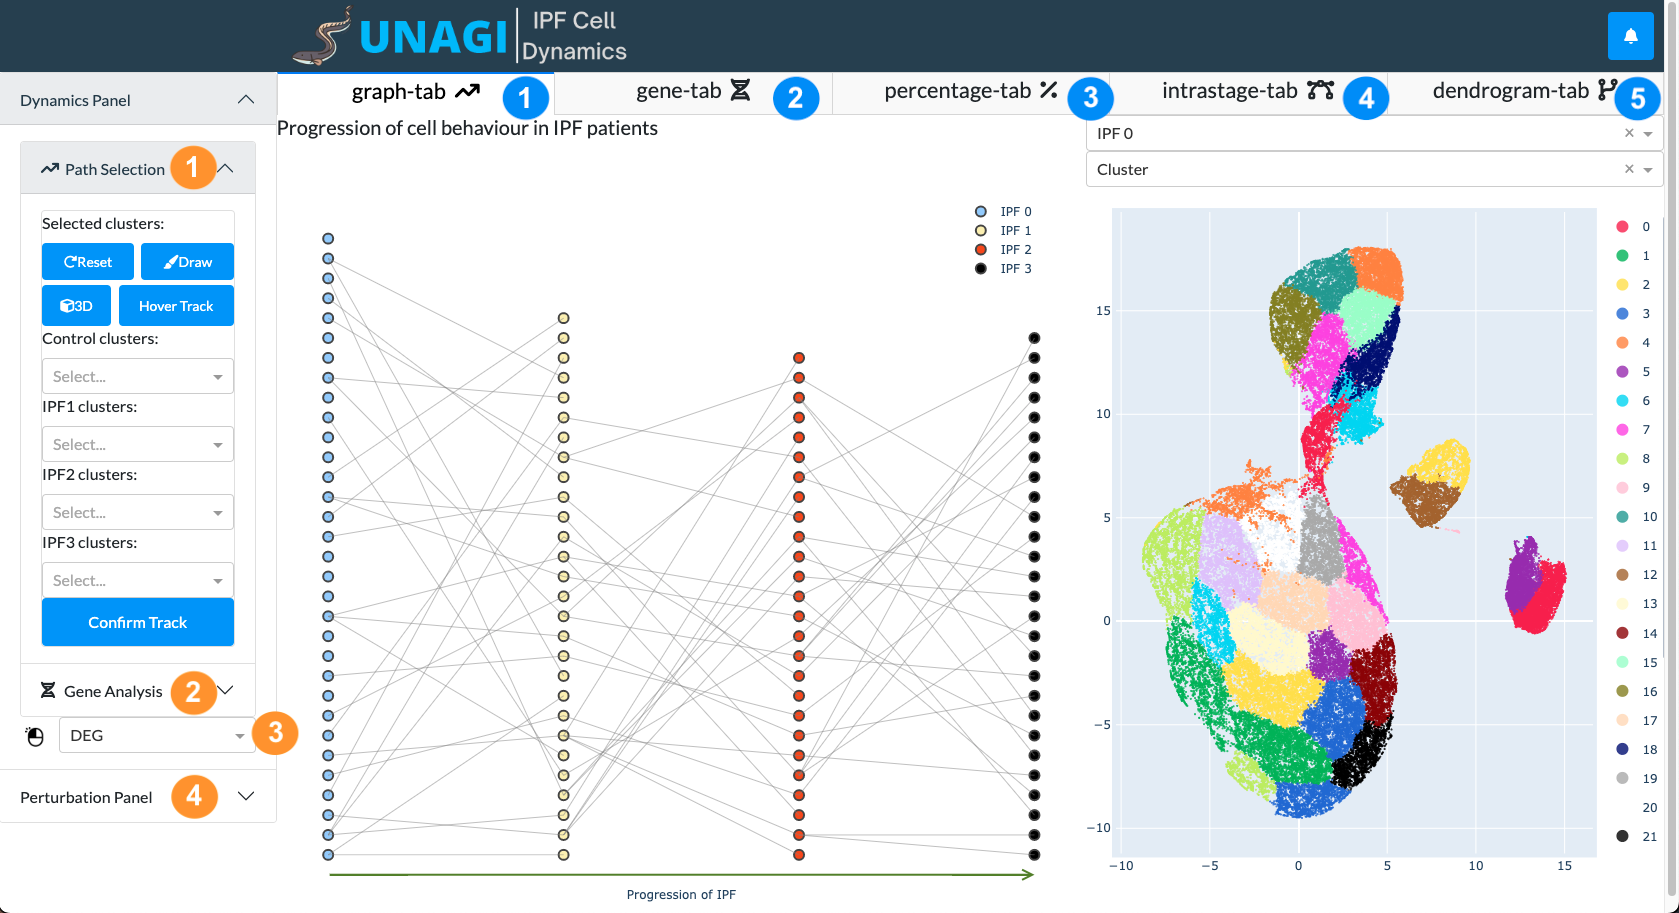
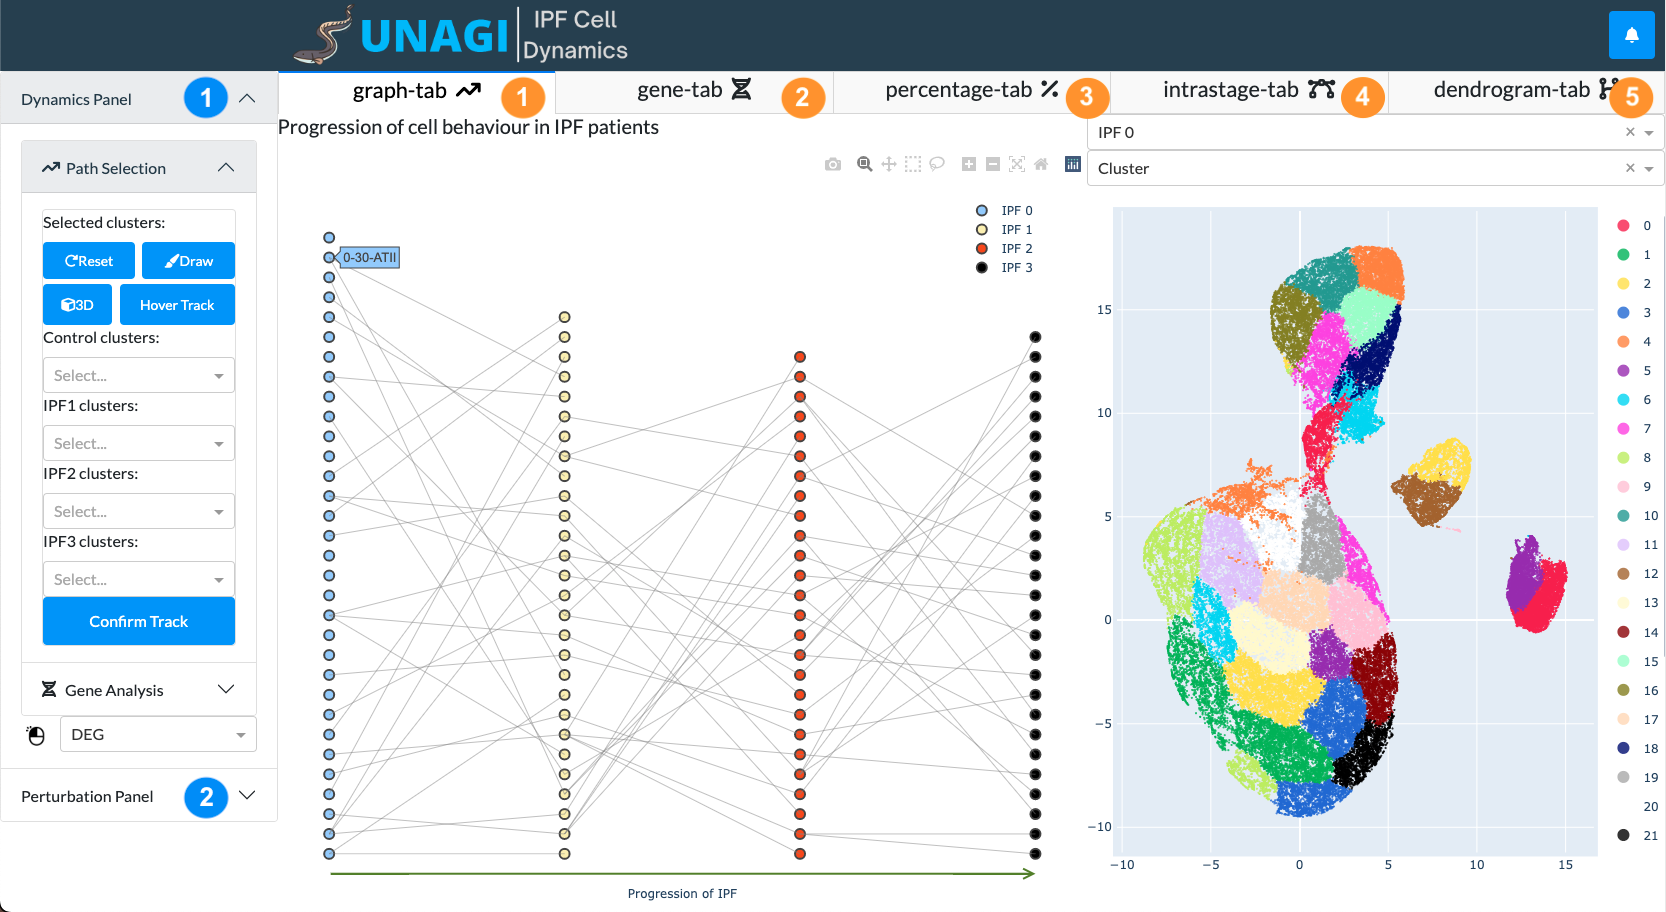
finished tutorial_1 and dynamics_panel

diff --git a/docs/tutorials/tutorial_1.md b/docs/tutorials/tutorial_1.md
@@ -8,52 +8,30 @@ toc: true
 ---
 Tutorial - Basic Analysis Pipeline
 ---
-This is a step by step demonstration of the basic functionalities of UNAGI.
+This is a step by step demonstration of the basic user flow of 
+finding a drug with a high perturbation score.
 
-UNAGI accepts .h5ad files and uses AnnData data structure for storing and analyzing. 
-<img src="../images/overview_1.png" class="center"/>
+First we need to select a track in the path selection panel and genes in the gene
+analysis panel. 
 
+<p align="center">
+  <img src="../images/panels_cluster.png" width="30%" />
+  <img src="../images/panels_genes.png" width="30%" />
+</p>
 
-UNAGI can be viewed as two parts: two panels on the left side for clusters and genes selection and five tabs 
-on the right side for results presentation. We are at the graph tab upon initialization. Inside graph tab, we have a
-2D visualization of the tracks and a scatter plot colored by cluster types. The default coloring type of the scatter
-plot is cluster, but we can use the dropdown menu to select different coloring options.
-<img src="../images/cluster_2.png" class="center"/>
+Different plots will be drawn based on your selection. Details on the tabs can be accessed here.
 
+Now we can go to the perturbation panel. We need to select a track,
+a compound, the stage, and the times of change. After all selections are
+made, click "Perturb" button.
+<p align="center">
+  <img src="../images/pert_panel.png" width="30%"/>
+</p>
 
-In the 2D visualization graph, each dot represents a cluster and each column represents a stage. We can click the dots
-to view the gene expression of that cluster. The results are usually shown in 2s.
-<img src="../images/track_1.png" class="center"/>
+The calculation will finish in a few seconds. A table will pop out with the
+perturbation information including perturbation score, p-value, and the
+difference of the magnitude of changes between stage 0 and the selected stage.
+<p align="center">
+  <img src="../images/pert_modal.png"  width="100%"/>
+</p>
 
-
-We can also select the track we want to analyze in the dynamics panel on the left.
-If a control cluster is selected, the clusters for different stages will be automatically filled in. 
-Once you have selected a track, click "Confirm Track" to confirm. After this, the scatter plot will be reloaded and
-show the results of the selected clusters in a few seconds.
-<img src="../images/dyna_2.jpeg" class="center"/>
-
-
-We can also click the "3D" button in the dynamics panel to view the 3D visualization. To go back, we can simply click 
-"3D" again.
-<img src="../images/3d_1.png" class="center"/>
-
-
-After selecting a track, we can go to the Percentage tab to see percentage of cells in each stage and in each cluster. 
-<img src="../images/perc_1.png" class="center"/>
-
-
-In the gene panel, we can select two clusters to compare their gene expression. Click "compare"
-after selecting two clusters and the results will be shown in a few seconds.
-
-
-We can also select genes to plot heatmaps, violin plots, umaps, and gene graphs.
-<img src="../images/gene_3.png" class="center"/>
-<img src="../images/gene_2.png" class="center"/>
-
-
-The plots are now displayed in the gene tab.
-<img src="../images/genetab_2.png" class="center"/>
-
-
-We can use the dropdown menu above each graph to display other graphs.
-<img src="../images/genetab_1.png" class="center"/>

diff --git a/docs/components/sidebar/dynamics_panel.md b/docs/components/sidebar/dynamics_panel.md
@@ -1,0 +1,64 @@
+---
+layout: page
+menubar: docs_menu
+title: Sidebar - Dynamics Panel
+show_sidebar: false
+toc: true
+---
+<p align="center">
+    <img src="../images/panels_cluster.png" width="30%" />
+    <img src="../images/panels_genes.png" width="30%" />
+</p>
+
+The dynamics panel contains two sub-panels: path selection and gene analysis.
+
+## Path Selection
+Under Path Selection, you can select the clusters you want to investigate using the dropdown menus.
+Once you select a control cluster, the clusters in IPF 1, 2, 3 will be automatically filled in.
+
+After you finish selecting, click 'Confirm Track'.
+
+A plot showing the relative percentage of cells in each stage and cluster will be shown in the percentage tab.
+
+### Buttons
+#### Reset
+Click to reset your selections under the Path Selection panel.
+#### Draw
+Click to highlight the selected clusters in the 2D visualization of clusters in the graph tab.
+<p align="center">
+  <img src="../images/draw.png" width="90%" />
+</p>
+
+#### 3D
+Click to show the 3D visualization of how the maps of each IPF stage 
+are connected. The selected track will be highlighted.
+Click again to return the 2D visualization.
+<p align="center">
+  <img src="../images/3D.png" width="90%" />
+</p>
+
+#### Hover Track
+The default mode is enabled. When you hover upon a cluster in the 2D
+visualization of clusters, a track will be highlighted. Click again to disable to hovering feature.
+<p align="center">
+  <img src="../images/hover_track.png" width="90%" />
+</p>
+
+## Gene Analysis
+### Buttons
+#### Highlight
+You can select genes in the dropdown menu. Click 'Highlight' to confirm your selection.
+The genes will be highlighted in the 2D visualization of clusters in the [**Graph Tab**](analysis/graph_tab).
+In a few seconds, a gene graph, a violin plot, and umap(s) of gene expression will be drawn in the gene tab. Details can be found in [**Gene Tab**](analysis/gene_tab).
+<p align="center">
+    <img src="../images/gene_analysis_1.png" width="30%" />
+    <img src="../images/gene_analysis_highlight.png" width="90%" />
+</p>
+
+#### Compare
+You can select genes in the two dropdown menus. Click 'Compare' when you finish selecting.
+In a few seconds, a table containing
+<p align="center">
+    <img src="../images/gene_analysis_2.png" width="30%" />
+    <img src="../images/gene_analysis_compare.png" width="90%" />
+</p>

diff --git a/docs/components/analysis/graph_tab.md b/docs/components/analysis/graph_tab.md
@@ -6,3 +6,34 @@ show_sidebar: false
 toc: true
 ---
 analysis placeholder
+
+We are at the graph tab upon initialization. On the left, there is a 2D visualization of the tracks. 
+On the right, there is a scatter plot with different coloring options. The default coloring type of the scatter
+plot is cluster. You can use the dropdown menu to select different coloring options such as cell types and genes.
+<img src="../images/cluster_2.png" class="center"/>
+
+We can hover over a
+data point in the 2D visualization to see which track that cluster belongs to.
+Upon clicking a cluster, a table containing the gene expression
+of top genes in that cluster will be shown.
+
+We can change the display mode to iDREM. Upon clicking a cluster
+we will be directed to a new page that contains the iDREM infomation
+of that cluster.
+
+
+In the 2D visualization graph, each dot represents a cluster and each column represents a stage. We can click the dots
+to view the gene expression of that cluster. The results are usually shown in 2s.
+<img src="../images/track_1.png" class="center"/>
+
+
+We can also select the track we want to analyze in the dynamics panel on the left.
+If a control cluster is selected, the clusters for different stages will be automatically filled in. 
+Once you have selected a track, click "Confirm Track" to confirm. After this, the scatter plot will be reloaded and
+show the results of the selected clusters in a few seconds.
+<img src="../images/dyna_2.jpeg" class="center"/>
+
+
+We can also click the "3D" button in the dynamics panel to view the 3D visualization. To go back, we can simply click 
+"3D" again.
+<img src="../images/3d_1.png" class="center"/>

diff --git a/docs/components/overview.md b/docs/components/overview.md
@@ -18,16 +18,16 @@ This is UNAGI's main view during a typical workflow.
 <img src="../images/overview_labeled.png" class="center"/>
 
 Sidebar
-The sidebar consists of five panels. The first two deal with dimensionality reduction and clustering - two important steps when analyzing single cell data. The third panel is used to store annotations (cell types) for every cluster. The fourth and the fifth contain general tools such as subset and session management.
-1. [**Path Selection**](sidebar/path_selection)
-2. [**Gene Analysis**](sidebar/gene_analysis)
-3. [**DEG**](sidebar/)
-4. [**Perturbation Panel**](sidebar/perturbation_panel)
+The sidebar consists of two panels: Dynamics Panel and Perturbation Panel.
+The Dynamics Panel deals with .....
+The Perturbation Panel deals with .....
+1. [**Dynamics Panel**](sidebar/dynamics_panel)
+2. [**Perturbation Panel**](sidebar/perturbation_panel)
 
 Analysis
 
 1. [**Graph Tab**](analysis/graph_tab)
-2. [**Gene Tab**](analysis/feature-visualization)
-3. [**Percentage Tab**](analysis/enrich)
-4. [**Intrastage Tab**](analysis/enrich)
-5. [**Dendrogram Tab**](analysis/enrich)
+2. [**Gene Tab**](analysis/gene_tab)
+3. [**Percentage Tab**](analysis/percentage_tab)
+4. [**Intrastage Tab**](analysis/intrastage_tab)
+5. [**Dendrogram Tab**](analysis/dendrogram_tab)
